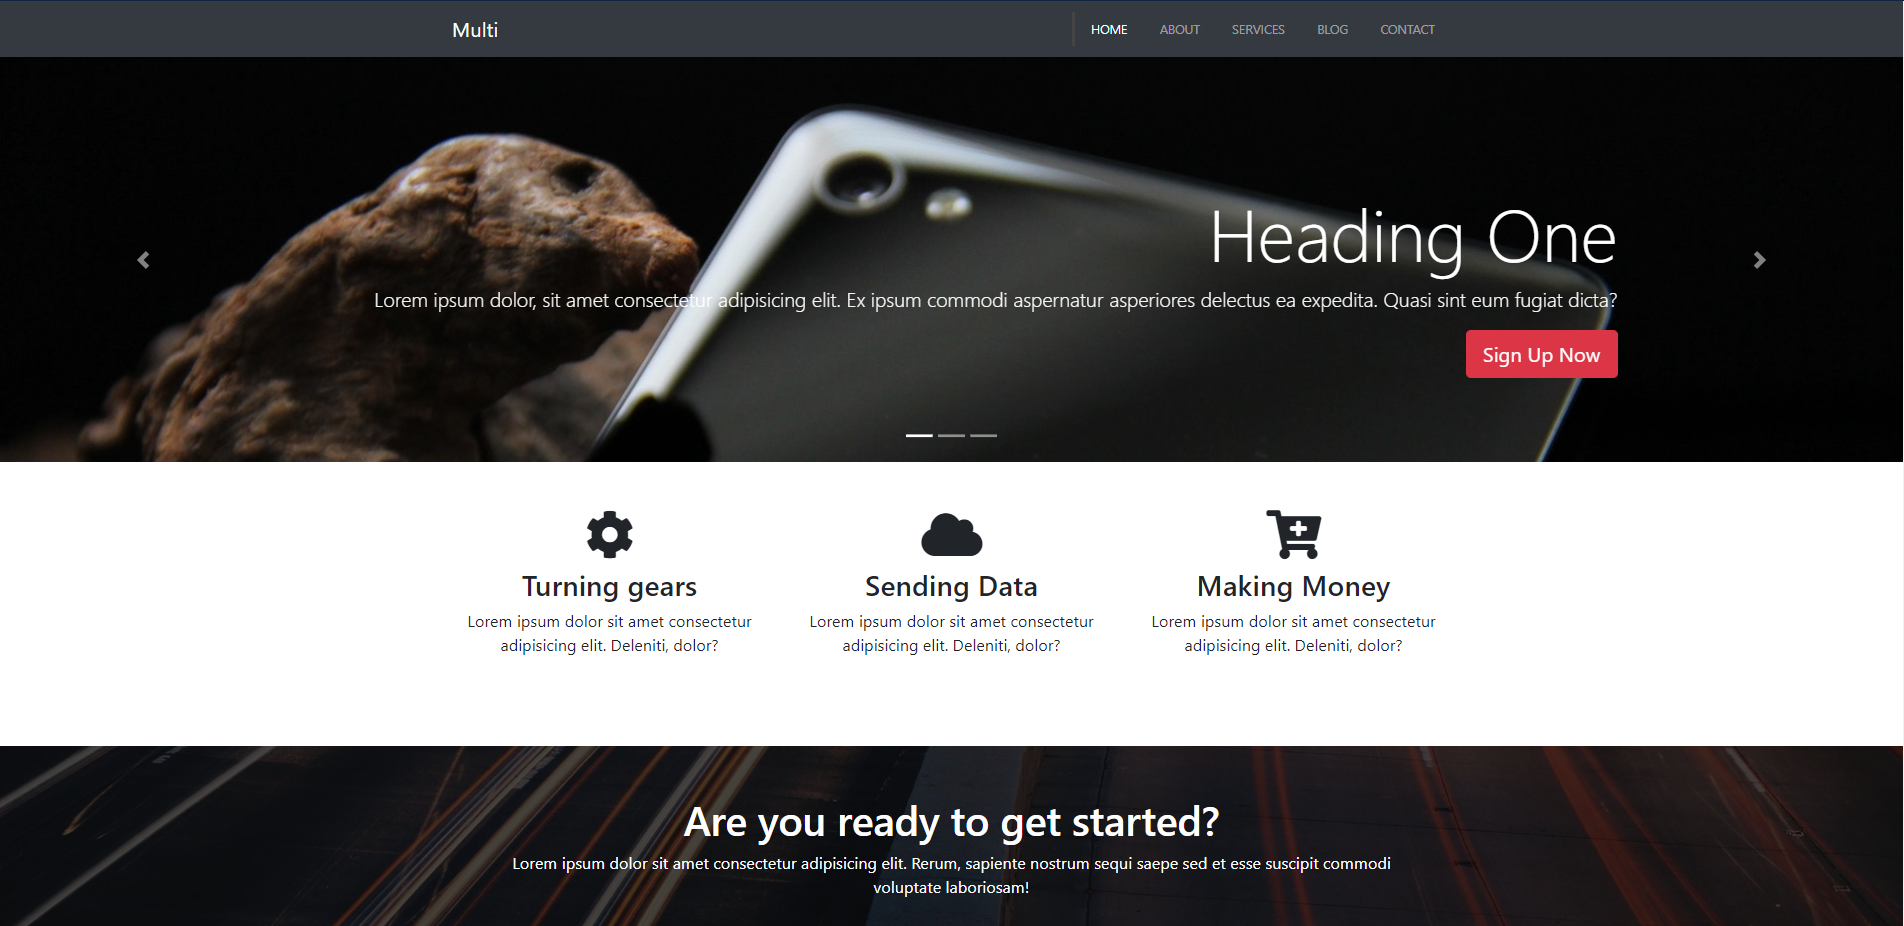
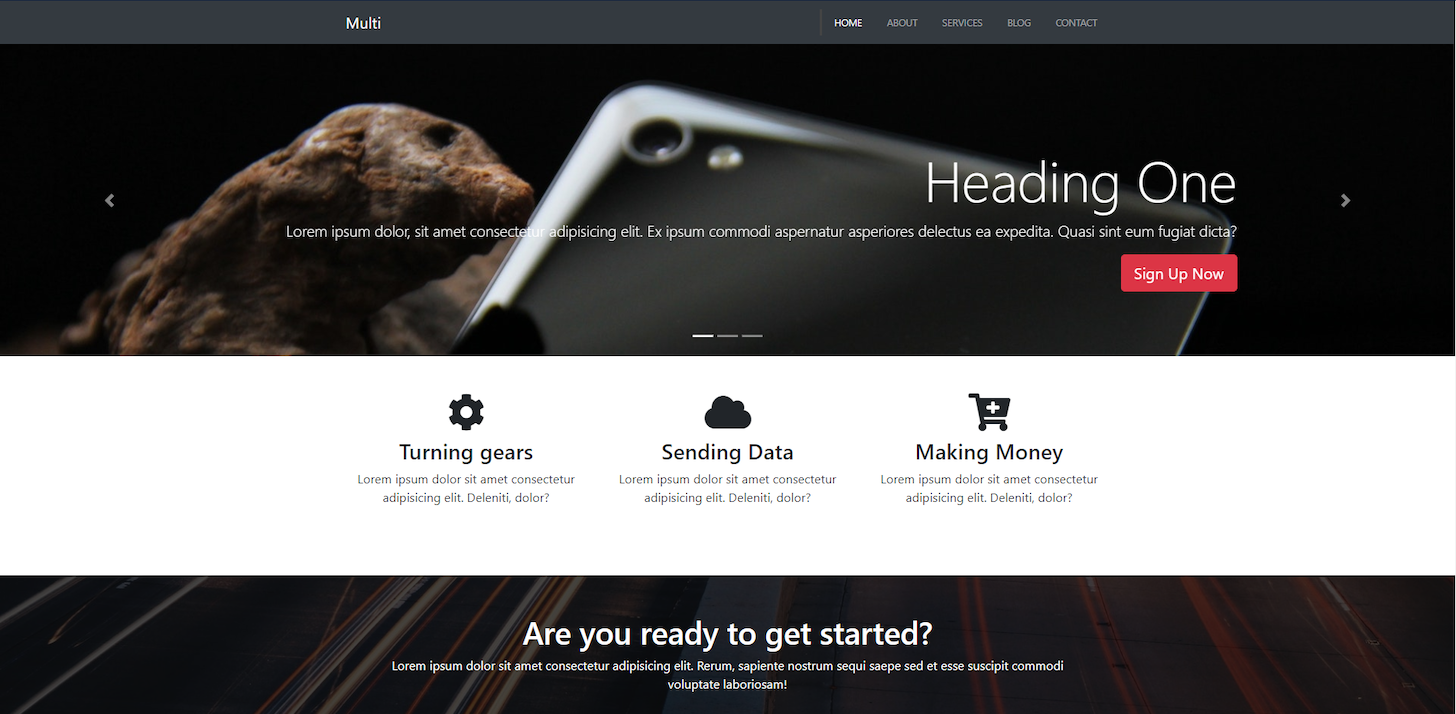
reduced photo sizes

diff --git a/index.html b/index.html
@@ -129,7 +129,7 @@
                         <div id="video-play">
                             <div class="container">
                                 <a href="#main-" clas="video" data-video="https://www.youtube.com/embed/Nu1ZzvNppIE"
-                                    data-toggle="modal" data-target="#videoModal"><img src="img/rube goldberg.png"
+                                    data-toggle="modal" data-target="#videoModal"><img src="img/rube-goldberg.png"
                                         alt="" class="img-fluid"></a>
                             </div>
                         </div>
